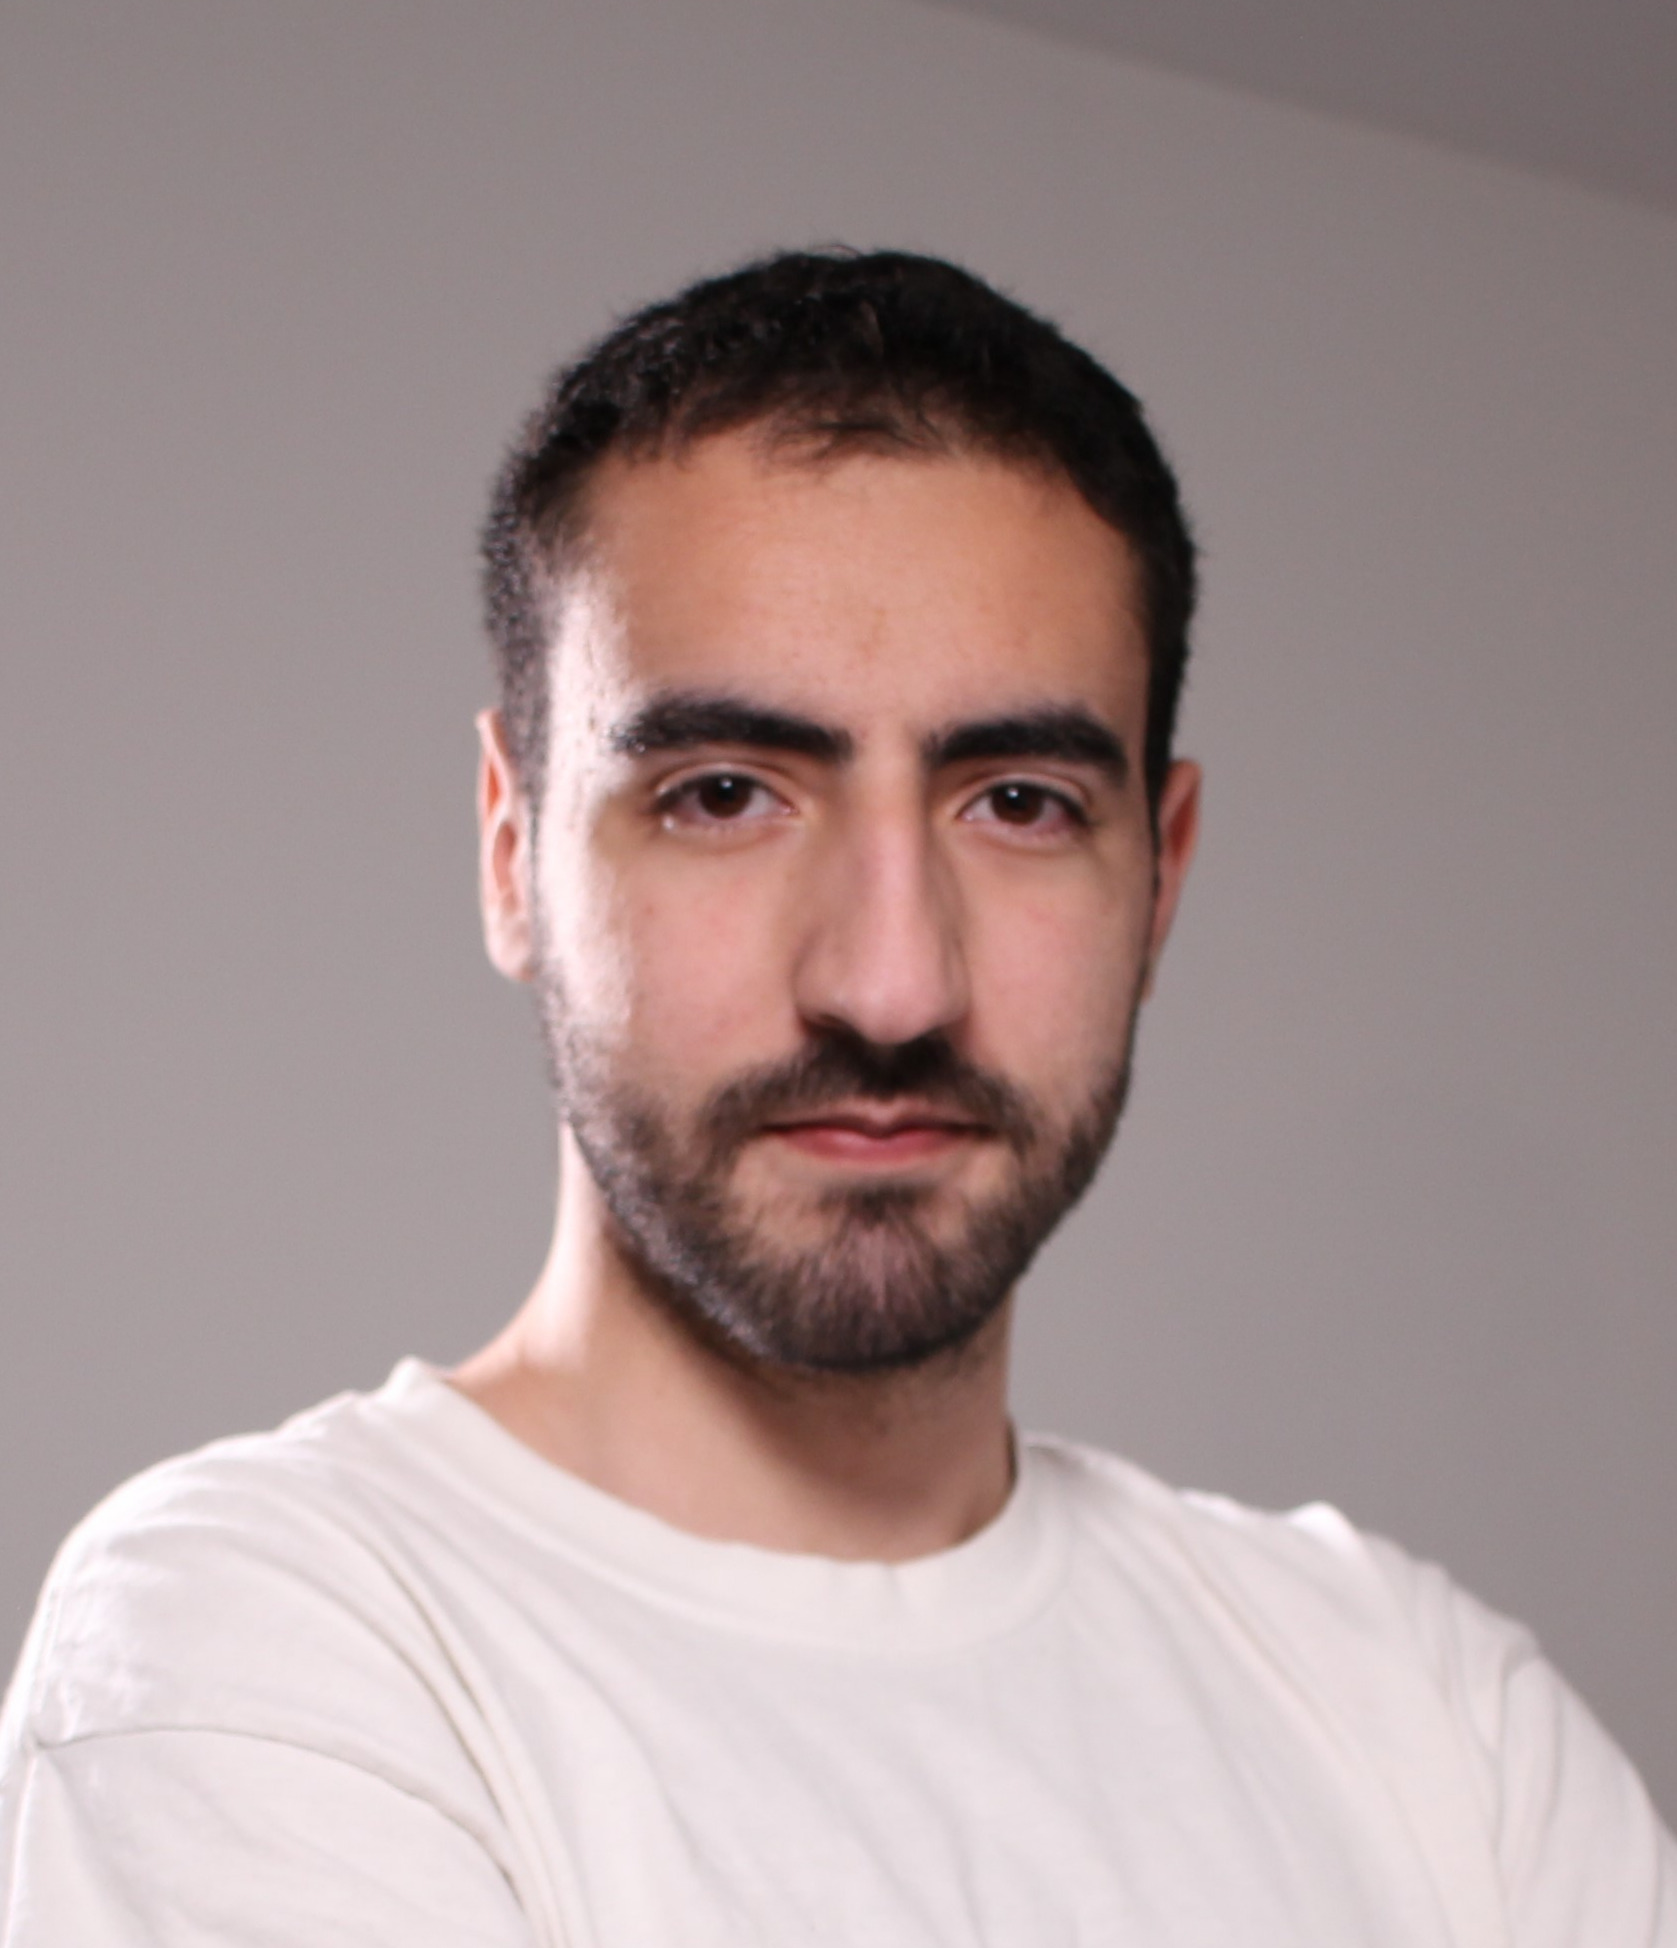
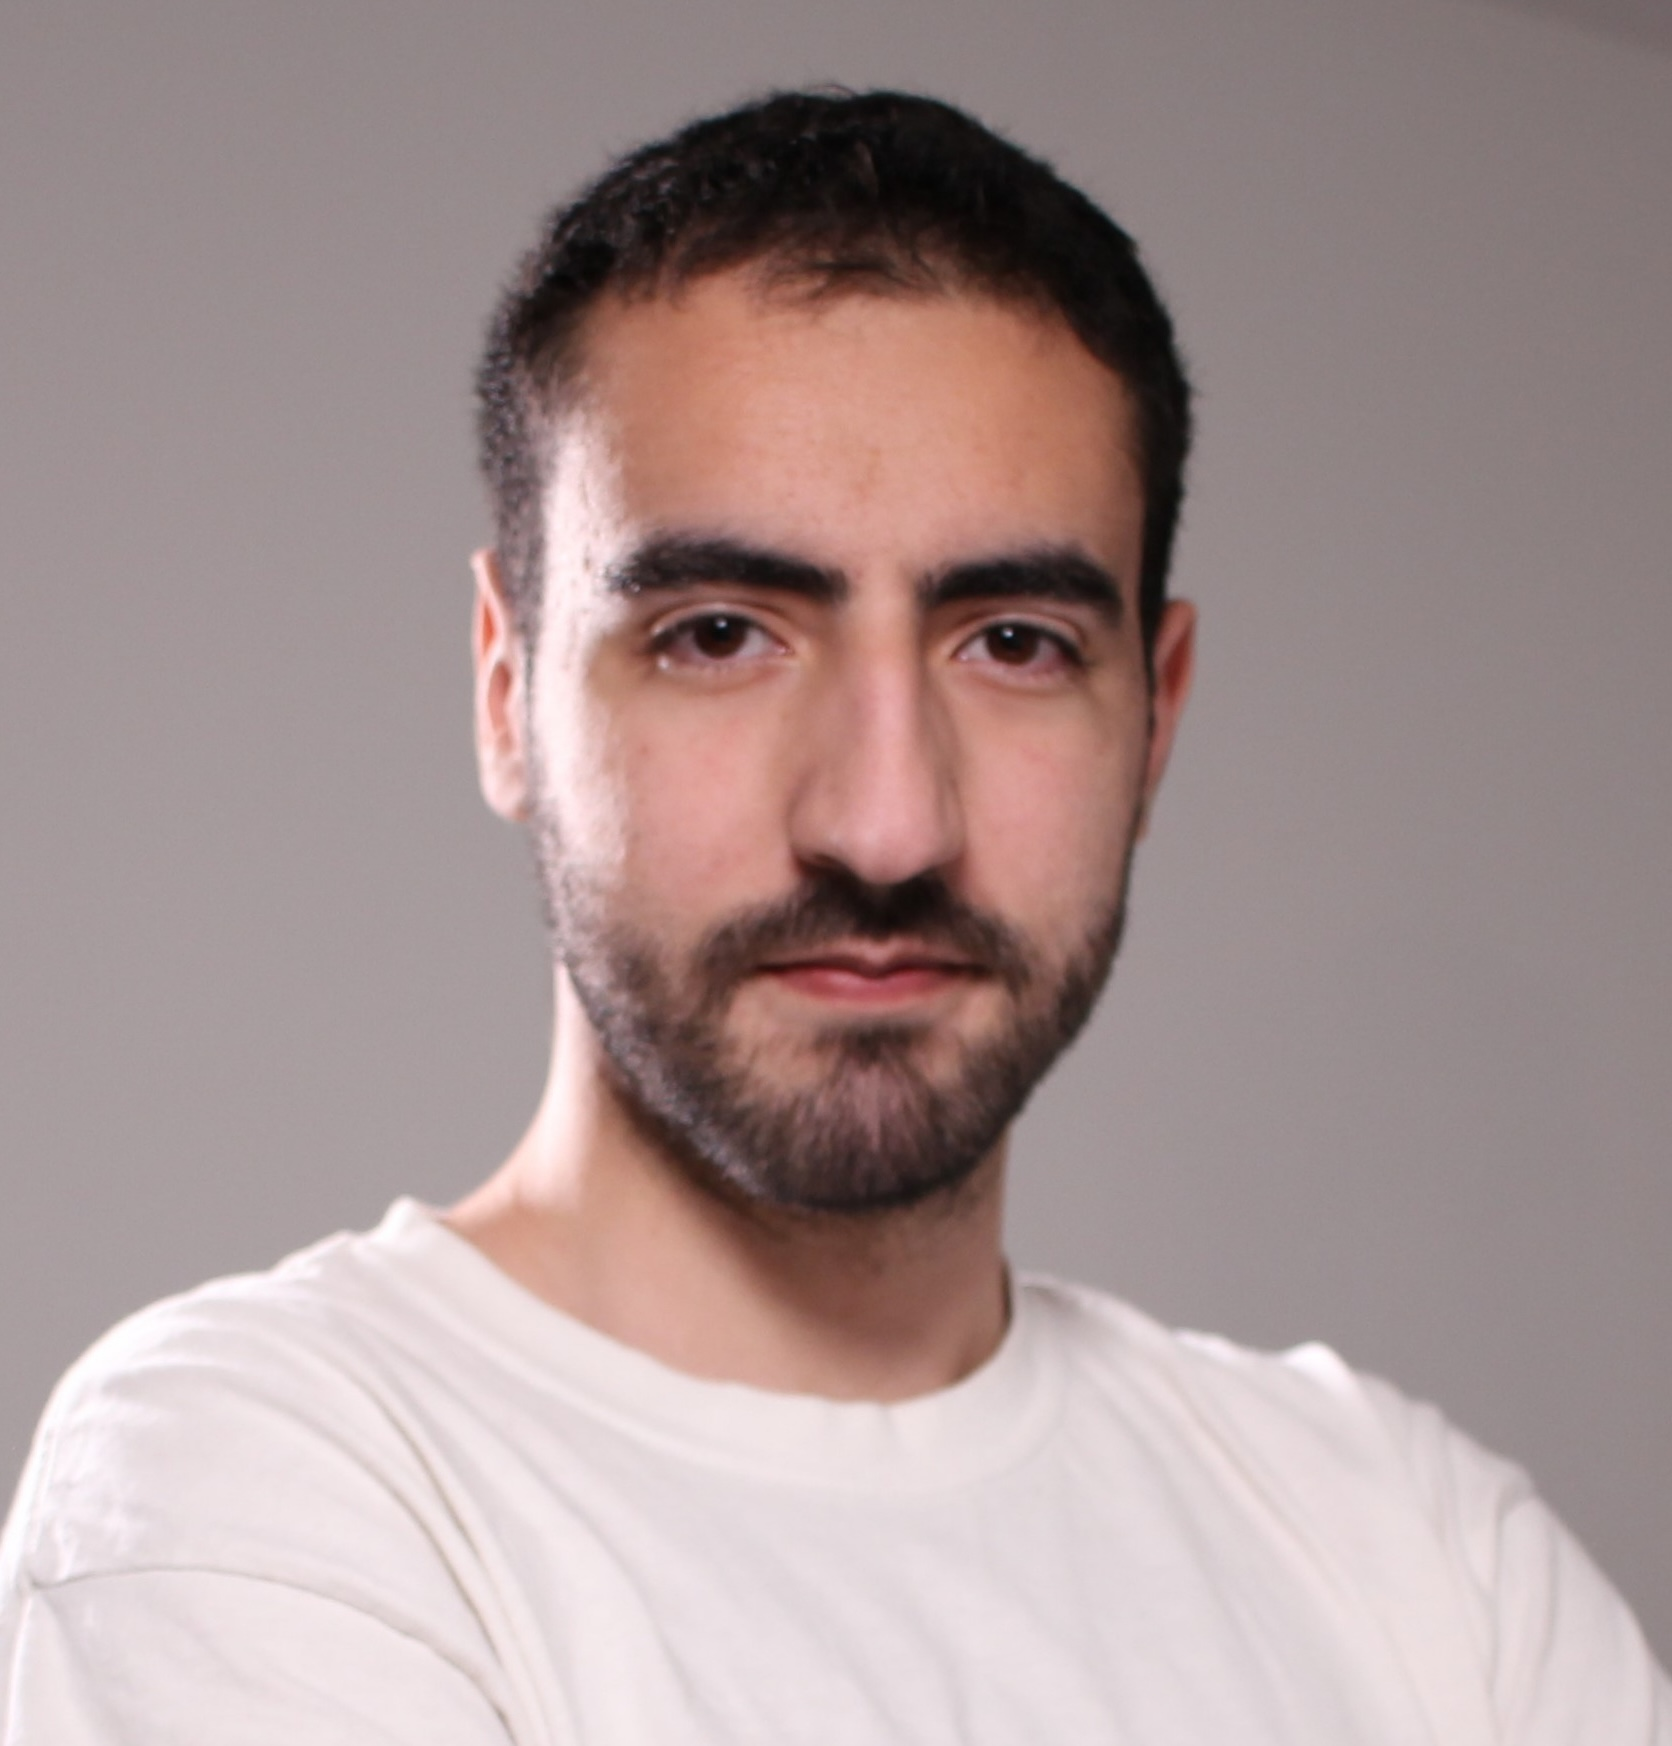
changes to course1

diff --git a/markdown/course1_recap.md b/markdown/course1_recap.md
@@ -21,7 +21,7 @@ marp: true
 <br/>
 
 <center>
-<img width="900px" src="../imgs/course1/intro-cartoon.jpeg"/>
+<img width="900px" src="../imgs/course1/intro-cartoon.png"/>
 </center>
 
 ---
@@ -30,7 +30,7 @@ marp: true
 <br/>
 
 <center>
-<img width="900px" src="../imgs/course1/bnf.jpeg"/>
+<img width="900px" src="../imgs/course1/bnf.jpg"/>
 </center>
 
 ---
@@ -136,7 +136,7 @@ marp: true
     <div style="flex: 33%;">
         <center>
         <img width="200px" src="../imgs/course1/francis.png"/></br>
-        Francis <br/>Kulumba ></center>
+        Francis <br/>Kulumba</center>
     </div>
     <div style="flex: 33%;">
         <center>
